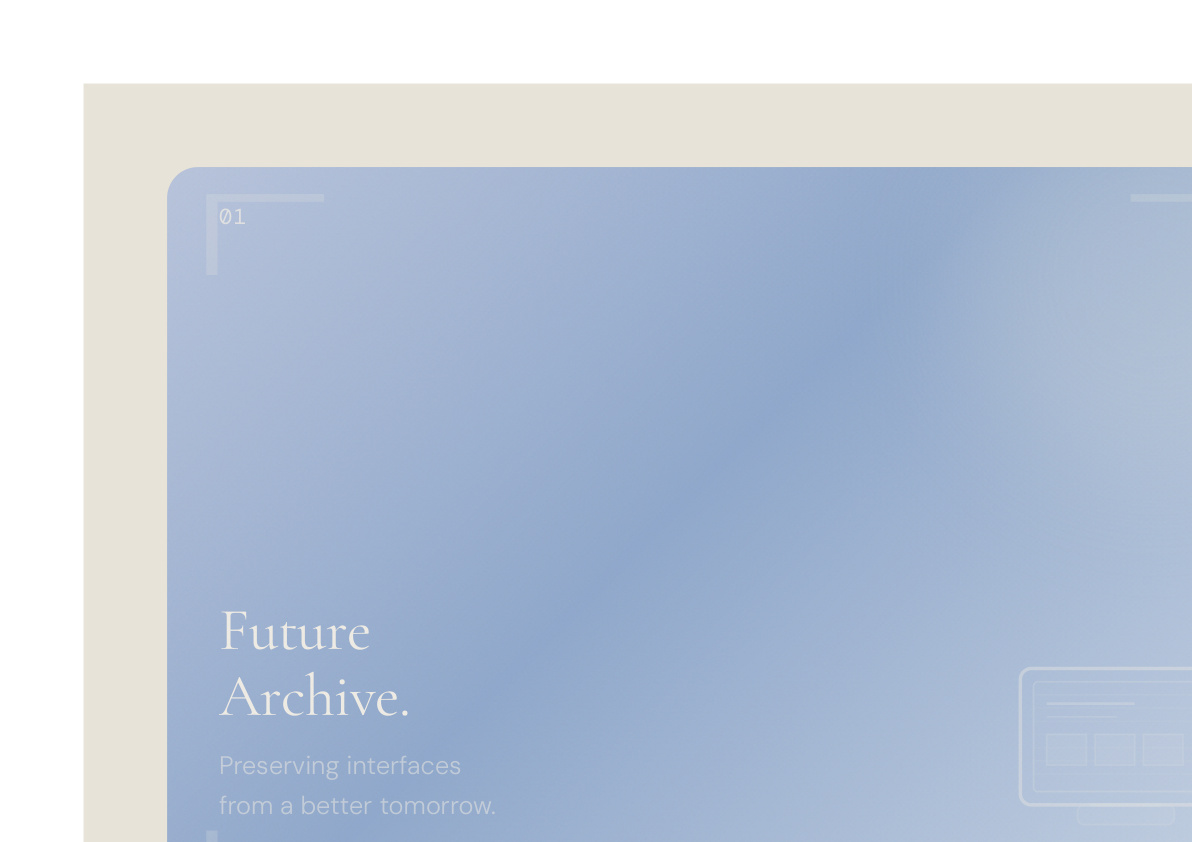
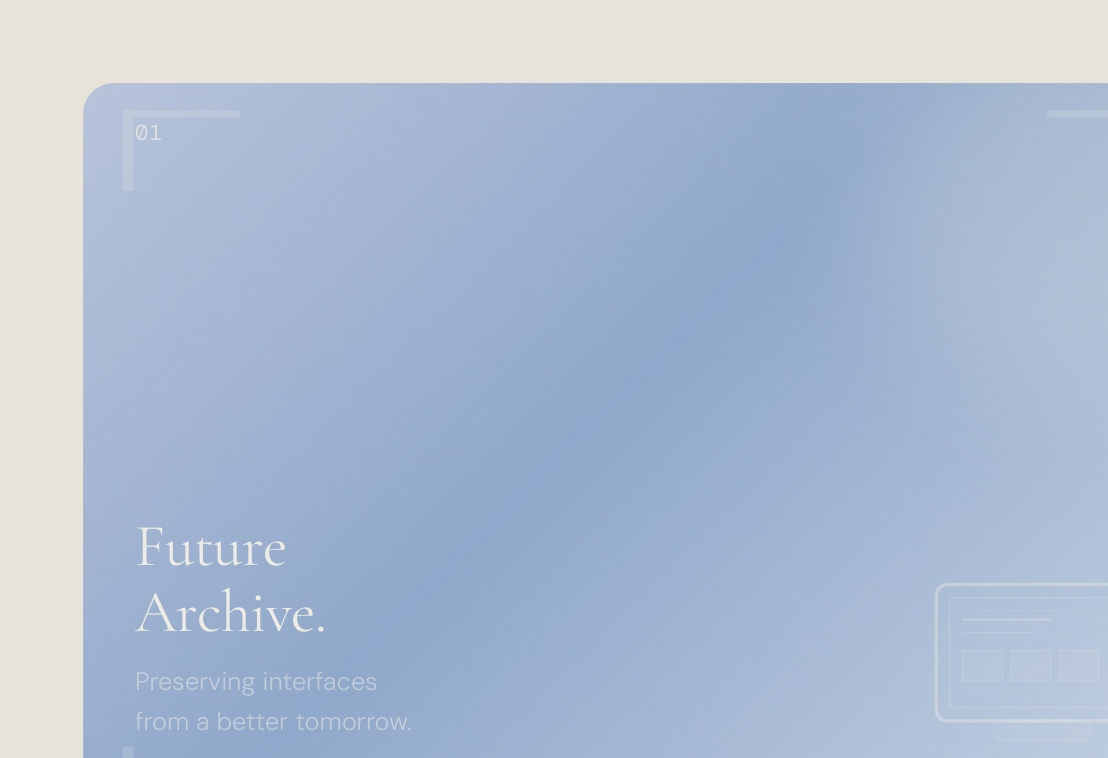
style(covers): swap AIhub/KANKAN positions; assign cover01/02/03 by card rhythm
Cards 01,04,07→cover01.jpg; 02,05,08→cover02.jpg; 03,06,09→cover03.jpg.
AIhub and KANKAN swapped in grid order.

diff --git a/index.html b/index.html
@@ -766,44 +766,25 @@
     .cover-sub  { display: none; }
     .cover-deco { display: none; }
 
-    /* ── A  Sky × Amber ────────────────────────────────────────────
-       Outer: powder blue    #B5D5E0
-       Core:  warm amber     rgb(242,185,58)  — brighter than outer
-       Glow radiates centre→edge, getting lighter                  */
-    .card-cover--04, .card-cover--09, .card-cover--08 {
-      --title-color: rgba(32,54,68,.80);
-      --num-color:   rgba(32,54,68,1);
-      background: url('cover_a.jpg') center/cover no-repeat;
+    /* ── 01cover — cards 01 04 07 ───────────────────────────────── */
+    .card-cover--07, .card-cover--01, .card-cover--08 {
+      --title-color: rgba(28,42,68,.82);
+      --num-color:   rgba(28,42,68,1);
+      background: url('cover01.jpg') center/cover no-repeat;
     }
 
-    /* ── B  Lavender × Coral ───────────────────────────────────────
-       Outer: soft lavender  #BDB8CC
-       Core:  coral-salmon   rgb(235,125,108) — brighter than outer
-       Glow radiates centre→edge, getting lighter                  */
-    .card-cover--03 {
-      --title-color: rgba(36,52,28,.82);
-      --num-color:   rgba(36,52,28,1);
-      background: url('cover_b1.jpg') center/cover no-repeat;
-    }
-    .card-cover--01 {
-      --title-color: rgba(36,52,28,.82);
-      --num-color:   rgba(36,52,28,1);
-      background: url('cover_b2.jpg') center/cover no-repeat;
-    }
-    .card-cover--02 {
-      --title-color: rgba(36,52,28,.82);
-      --num-color:   rgba(36,52,28,1);
-      background: url('cover_b3.jpg') center/cover no-repeat;
+    /* ── 02cover — cards 02 05 08 ───────────────────────────────── */
+    .card-cover--03, .card-cover--05, .card-cover--06 {
+      --title-color: rgba(68,40,32,.82);
+      --num-color:   rgba(68,40,32,1);
+      background: url('cover02.jpg') center/cover no-repeat;
     }
 
-    /* ── C  Sage × Forest ──────────────────────────────────────────
-       Outer: pale sage-olive  #BCBF96
-       Core:  deep forest      rgb(95,118,44)  — DARKER than outer
-       Glow positioned lower (at 50% 58%), core darkens downward   */
-    .card-cover--07, .card-cover--05, .card-cover--06 {
-      --title-color: rgba(40,52,20,.80);
-      --num-color:   rgba(40,52,20,1);
-      background: url('cover_c.jpg') center/cover no-repeat;
+    /* ── 03cover — cards 03 06 09 ───────────────────────────────── */
+    .card-cover--04, .card-cover--09, .card-cover--02 {
+      --title-color: rgba(232,242,228,.90);
+      --num-color:   rgba(232,242,228,1);
+      background: url('cover03.jpg') center/cover no-repeat;
     }
 
     /* ─── TOUCH / MOBILE: hide desktop cursor ─────────── */
@@ -1477,6 +1458,41 @@
       </article>
 
       <!-- 5th card: KANKAN -->
+      <article class="project-card" data-category="build">
+        <a href="https://tiffanyaihub.lovable.app" target="_blank" style="display:block;cursor:none;">
+        <div class="project-card-inner">
+          <div class="project-thumb">
+            <div class="project-thumb-bg">
+              AI Hub
+              <span class="project-num">06</span>
+              <img src="2222.jpg" alt="AI Learning Hub" class="project-thumb-photo" />
+            </div>
+            
+            <div class="card-cover card-cover--05">
+              <div class="cover-inner"></div>
+              <svg class="cover-deco" style="width:208px;height:155px;right:-16px;top:0;" viewBox="0 0 208 155" fill="none" aria-hidden="true">
+                <path d="M208,0 Q146,60 86,104 Q46,130 0,142" stroke="rgba(240,238,228,.16)" stroke-width="1.1"/>
+                <path d="M208,30 Q152,86 98,124 Q62,146 16,155" stroke="rgba(240,238,228,.10)" stroke-width=".9"/>
+              </svg>
+              <div class="cover-num">06</div>
+              <div class="cover-text">
+                <div class="cover-title">AIHub</div>
+                <div class="cover-sub">The best AI resources, curated for you.</div>
+              </div>
+            </div>
+            <div class="project-overlay"></div>
+            <div class="project-view"><span>View Project ↗</span></div>
+          </div>
+          <div class="project-info">
+            <div class="project-tags"><span class="project-meta">VIBE CODING</span><span class="project-meta">Interactive website</span></div>
+            <div class="project-title">AI Learning Hub</div>
+            <div class="project-desc">A curated collection of the best AI resources to help you stay ahead.</div>
+          </div>
+        </div>
+        </a>
+      </article>
+
+      <!-- 6th card: AI Learning Hub -->
       <article class="project-card" data-category="design">
         <a href="kankan.html" style="display:block;cursor:none;">
         <div class="project-card-inner">
@@ -1510,41 +1526,6 @@
             <div class="project-tags"><span class="project-meta">UX Design</span><span class="project-meta">@KTH</span></div>
             <div class="project-title">KANKAN</div>
             <div class="project-desc">A City Selection and Life Planning Tool for Chinese Digital Nomads.</div>
-          </div>
-        </div>
-        </a>
-      </article>
-
-      <!-- 6th card: AI Learning Hub -->
-      <article class="project-card" data-category="build">
-        <a href="https://tiffanyaihub.lovable.app" target="_blank" style="display:block;cursor:none;">
-        <div class="project-card-inner">
-          <div class="project-thumb">
-            <div class="project-thumb-bg">
-              AI Hub
-              <span class="project-num">06</span>
-              <img src="2222.jpg" alt="AI Learning Hub" class="project-thumb-photo" />
-            </div>
-            
-            <div class="card-cover card-cover--05">
-              <div class="cover-inner"></div>
-              <svg class="cover-deco" style="width:208px;height:155px;right:-16px;top:0;" viewBox="0 0 208 155" fill="none" aria-hidden="true">
-                <path d="M208,0 Q146,60 86,104 Q46,130 0,142" stroke="rgba(240,238,228,.16)" stroke-width="1.1"/>
-                <path d="M208,30 Q152,86 98,124 Q62,146 16,155" stroke="rgba(240,238,228,.10)" stroke-width=".9"/>
-              </svg>
-              <div class="cover-num">06</div>
-              <div class="cover-text">
-                <div class="cover-title">AIHub</div>
-                <div class="cover-sub">The best AI resources, curated for you.</div>
-              </div>
-            </div>
-            <div class="project-overlay"></div>
-            <div class="project-view"><span>View Project ↗</span></div>
-          </div>
-          <div class="project-info">
-            <div class="project-tags"><span class="project-meta">VIBE CODING</span><span class="project-meta">Interactive website</span></div>
-            <div class="project-title">AI Learning Hub</div>
-            <div class="project-desc">A curated collection of the best AI resources to help you stay ahead.</div>
           </div>
         </div>
         </a>
